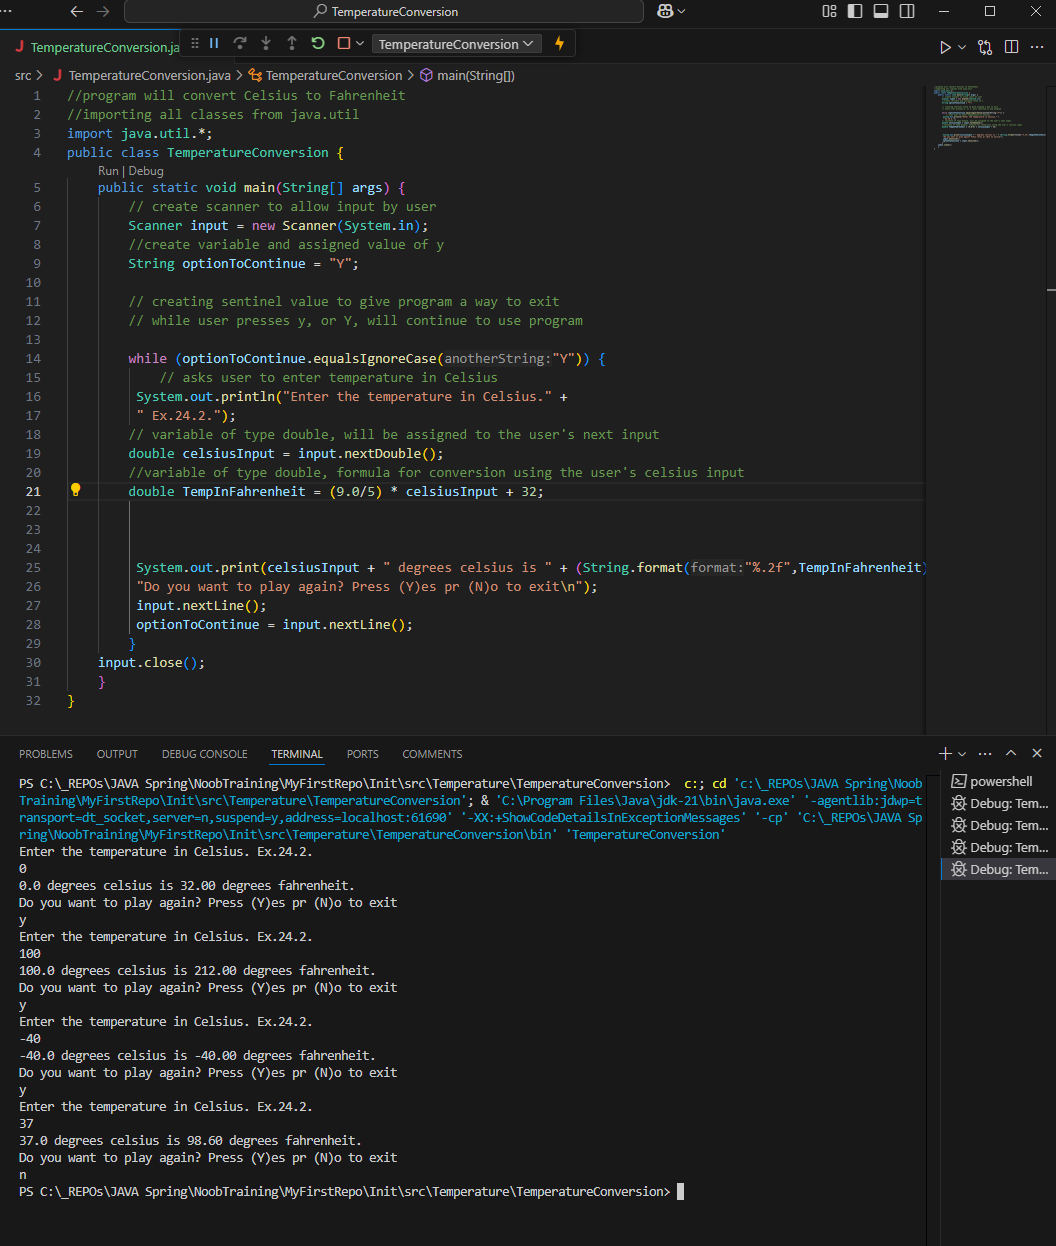
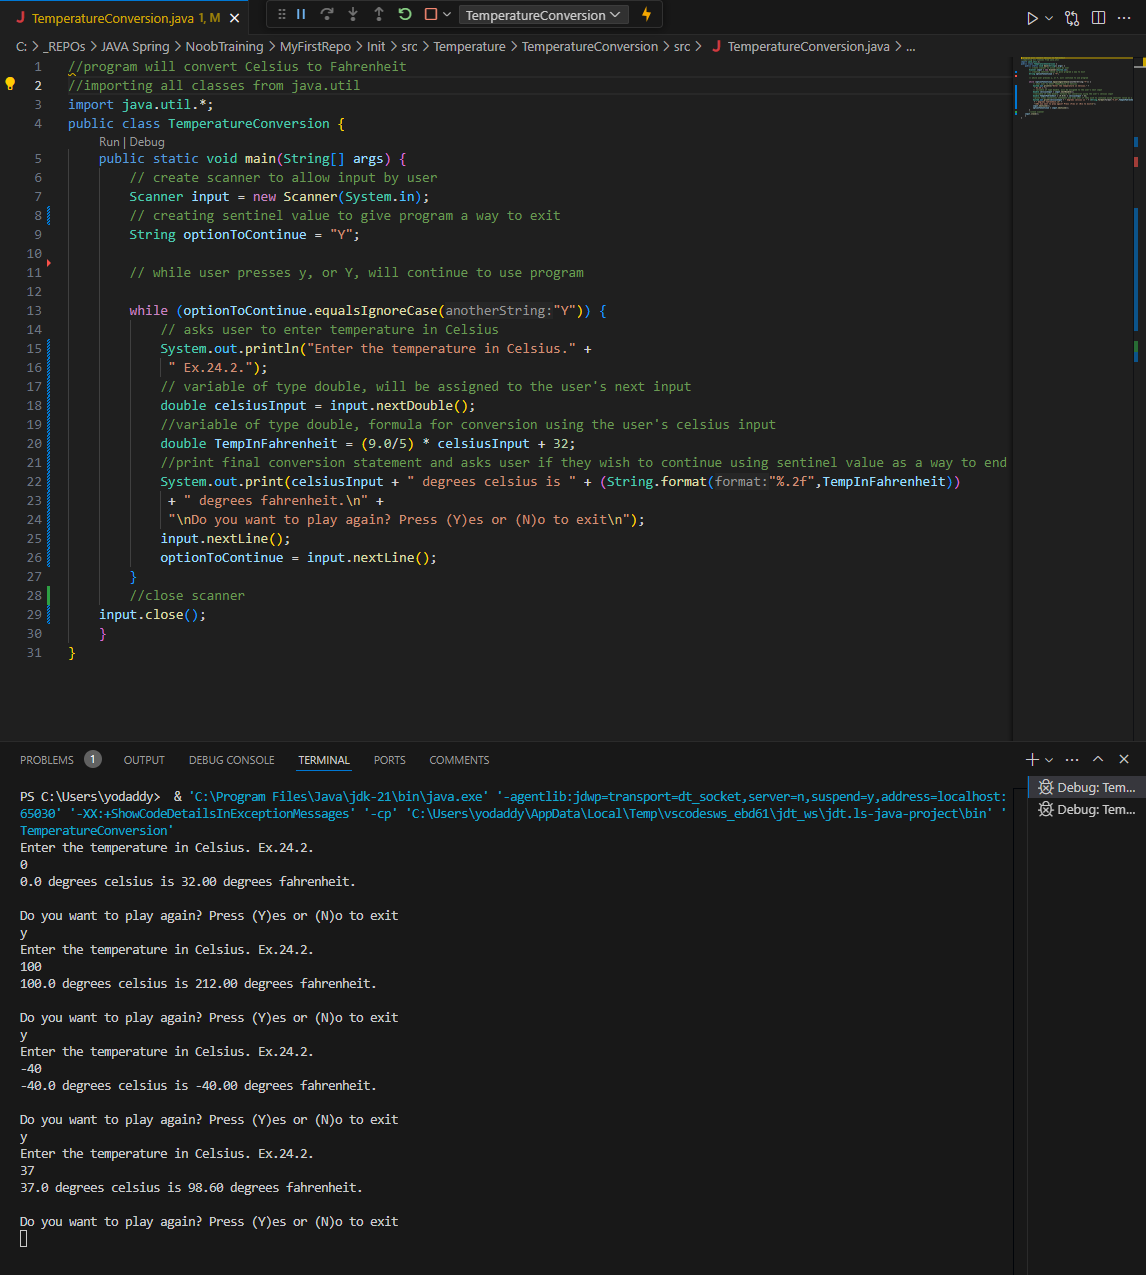
final comments added, good to submit

diff --git a/MyFirstRepo/Init/src/Temperature/TemperatureConversion/src/TemperatureConversion.java b/MyFirstRepo/Init/src/Temperature/TemperatureConversion/src/TemperatureConversion.java
@@ -5,28 +5,27 @@ public class TemperatureConversion {
     public static void main(String[] args) {
         // create scanner to allow input by user
         Scanner input = new Scanner(System.in);
-        //create variable and assigned value of y
+        // creating sentinel value to give program a way to exit
         String optionToContinue = "Y";
         
-        // creating sentinel value to give program a way to exit
         // while user presses y, or Y, will continue to use program
 
         while (optionToContinue.equalsIgnoreCase("Y")) {
             // asks user to enter temperature in Celsius
-         System.out.println("Enter the temperature in Celsius." +
-         " Ex.24.2.");
-        // variable of type double, will be assigned to the user's next input   
-        double celsiusInput = input.nextDouble();
-        //variable of type double, formula for conversion using the user's celsius input
-        double TempInFahrenheit = (9.0/5) * celsiusInput + 32;
-        
-         
-         
-         System.out.print(celsiusInput + " degrees celsius is " + (String.format("%.2f",TempInFahrenheit)) + " degrees fahrenheit.\n" +
-         "\nDo you want to play again? Press (Y)es or (N)o to exit\n");
-         input.nextLine();
-         optionToContinue = input.nextLine();
+            System.out.println("Enter the temperature in Celsius." +
+             " Ex.24.2.");
+            // variable of type double, will be assigned to the user's next input   
+            double celsiusInput = input.nextDouble();
+            //variable of type double, formula for conversion using the user's celsius input
+            double TempInFahrenheit = (9.0/5) * celsiusInput + 32;
+            //print final conversion statement and asks user if they wish to continue using sentinel value as a way to end
+            System.out.print(celsiusInput + " degrees celsius is " + (String.format("%.2f",TempInFahrenheit))
+             + " degrees fahrenheit.\n" +
+             "\nDo you want to play again? Press (Y)es or (N)o to exit\n");
+            input.nextLine();
+            optionToContinue = input.nextLine();
         }
-    input.close();            
+        //close scanner
+    input.close();          
     }
 }
